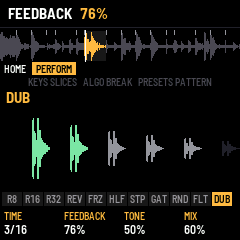
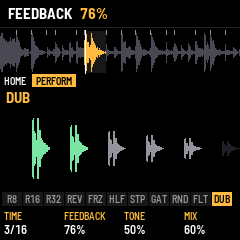
The help line gone; EDIT's drums show their waveforms
- the KEYS / ALGO / PRESETS line under the waveform is removed (the tabs say
  enough); the waveform has its rows back (44), the tabs sit under it
- EDIT's lower strip: each drum's box draws one hit of it (kick_shape and a
  new perc_shape, offline, worked out again when its sound changes), over a
  window fitting its decay, scaled to the box; lit on its hits as before
- engine test: perc_shape gives a hit, then its tail
- the manual's screenshots and the README's strips taken again; the control
  map's screen without the line

Claude-Session: https://claude.ai/code/session_01YWuRNut7ZhYpQRsULF21Ph

Changed region(s): [[0.0, 0.1458, 1.0, 0.3792]]

diff --git a/app/site/controlmap.html b/app/site/controlmap.html
@@ -34,8 +34,8 @@
 .cmap .zone { position: absolute; left: 0; right: 0; display: flex; align-items: center; padding: 0 6px; font-size: 9px; letter-spacing: .03em; }
 .cmap .z-head { top: 0; height: 11.7%; border-bottom: 1px solid #2a2a2a; color: #fff; justify-content: space-between; }
 .cmap .z-head b { color: var(--amber); font-weight: 500; }
-.cmap .z-wave { top: 12.5%; height: 13.3%; }
-.cmap .z-tabs { top: 25.8%; height: 5.8%; gap: 3px; font-size: 7px; color: #fff; }
+.cmap .z-wave { top: 12.5%; height: 18.3%; }
+.cmap .z-tabs { top: 30.8%; height: 5.8%; gap: 3px; font-size: 7px; color: #fff; }
 .cmap .z-tabs span { background: #1f1f1f; color: #9a9a9a; padding: 1px 3px; border-radius: 1px; }
 .cmap .z-tabs span.on { background: var(--amber); color: #000; }
 .cmap .z-tabs em { margin-left: auto; color: var(--amber); font-style: normal; }
@@ -122,7 +122,6 @@
             <div class="zone z-head"><span>&#9654; AMEN P1</span><b>170.0 BPM</b></div>
             <div class="zone z-wave"><svg class="wave" data-cm="wave" viewBox="0 0 240 32" preserveAspectRatio="none" aria-hidden="true"></svg></div>
             <div class="zone z-tabs" data-cm="tabs"></div>
-            <div class="zone z-help" data-cm="help"></div>
             <div class="zone z-strip"><div class="strip-box" data-cm="strip"></div></div>
             <div class="zone z-pads" data-cm="pads"></div>
             <div class="zone z-knobs" data-cm="knobs"></div>
@@ -233,12 +232,10 @@
     const on = p.id === "edit" ? (sub < 5 ? 0 : 1) : sub;
     $("tabs").innerHTML = "<b>" + p.btn + "</b>" + tabs.map((t, i) => '<span class="' + (i === on ? "on" : "") + '">' + t + "</span>").join("") +
       (p.part ? "<em>&lt; " + (p.id === "edit" ? s.n.split(" · ")[1] : "TREMOLO") + " &gt;</em>" : "");
-    $("help").className = "zone z-help" + (steps ? " steps" : "");
-    $("help").textContent = "KEYS " + (p.keys === "taps" ? "TAP" : steps ? (sub < 2 ? "PICK STEP" : "LANE STEPS") : "SLICES") + "   ALGO " + p.algo.split(" (")[0].toUpperCase() + "   PRESETS " + p.presets.split(" ")[0].toUpperCase();
     $("strip").innerHTML = s.strip + (s.note ? "<em>" + s.note + "</em>" : "");
     $("knobs").innerHTML = s.k.map((k, i) => k ? "<div>" + k + "<b>·····</b></div>" : '<div class="empty">K' + (i + 1) + "<b>&nbsp;</b></div>").join("");
     $("zones").innerHTML = [["HEADER", "Break, pattern, REC, tempo, meter", 1], ["WAVEFORM", "The break, the slice lit, the playhead", 1],
-      ["TABS", p.btn + " › " + tabs.join(" · "), 0], ["HELP", $("help").textContent.replace(/ {3}/g, " · "), 0],
+      ["TABS", p.btn + " › " + tabs.join(" · "), 0],
       ["STRIP", s.strip.toLowerCase(), 0], ["PADS", "11 pads, lit while held", 1], ["KNOBS", s.k.map(k => k || "—").join(" · "), 0]]
       .map(([a, b, same]) => "<div><dt>" + a + '</dt><dd class="' + (same ? "same" : "") + '">' + b + "</dd></div>").join("");
     const encs = [["SELECT", "Tempo (SEL: 0.1)", "on"], ["ALGORITHM", p.algo, "on"], ["PRESETS", p.presets, "on"]]

diff --git a/app/ui/kick.c b/app/ui/kick.c
@@ -179,24 +179,50 @@ static void kick_knob_turn(int i, int32_t d)
 static uint8_t kick_px[KS_W];
 static uint32_t kick_px_sig = 1u;
 
-/* EDIT's lower strip: the three drums side by side, the one edited outlined, each with its level, lit on its hits */
+/* EDIT's lower strip: the three drums side by side, each its own waveform (one hit, worked out again when its sound
+ * changes), the one edited outlined, lit on its hits */
+#define DW 66u                           /* a drum's waveform: its columns */
+static uint8_t drum_px[3][DW];
+static uint32_t drum_sig[3] = {1u, 1u, 1u};
+static uint32_t sig_of(const void *p, uint32_t n)
+{
+    uint32_t i, h = 2166136261u;
+    for (i = 0; i < n; i++)
+        h = (h ^ ((const uint8_t *)p)[i]) * 16777619u;
+    return h;
+}
 static void draw_drums(const brk_status_t *st)
 {
     static const char *const NAME[3] = {"KICK", "SNARE", "HAT"};
-    float lv[3];
-    uint32_t i;
-    lv[0] = set.kick.volume;
-    lv[1] = set.perc.v[PV_SNARE].level * set.perc.volume;
-    lv[2] = set.perc.v[PV_HAT].level * set.perc.volume;
+    uint32_t i, c;
+    for (i = 0; i < 3u; i++) {
+        uint32_t sig = i ? sig_of(&set.perc.v[i - 1u], sizeof set.perc.v[0]) : sig_of(&set.kick, sizeof set.kick);
+        if (sig != drum_sig[i]) {        /* its hit again, over a window that fits its decay, as tall as the box */
+            uint32_t pk = 0u;
+            drum_sig[i] = sig;
+            if (i) {
+                float d = perc_decay_ms(i - 1u, set.perc.v[i - 1u].decay) * 1.4f;
+                perc_shape(i - 1u, &set.perc.v[i - 1u], drum_px[i], DW, (uint32_t)brk_clampf(d, 60.0f, 900.0f), 120u);
+            } else
+                kick_shape(&set.kick, drum_px[0], DW, 600u, 120u);
+            for (c = 0; c < DW; c++)
+                pk = drum_px[i][c] > pk ? drum_px[i][c] : pk;
+            for (c = 0; c < DW && pk; c++)
+                drum_px[i][c] = (uint8_t)(drum_px[i][c] * 30u / pk);
+        }
+    }
     cv_begin(240, 52, C_BLACK);
     for (i = 0; i < 3u; i++) {
         int32_t x = 2 + (int32_t)i * 80;
         int sel = i == ui.einst, hit = st->playing && st->bar16 >= 0 && (lane_now[i] >> st->bar16 & 1u);
-        cv_rect(x, 4, 76, 44, sel ? C_WHITE : C_LINE);
-        cv_rect(x + 1, 5, 74, 42, hit ? C_BLOCK_HI : C_BLACK);
-        cv_text(x + 6, 9, &FONT_XS, NAME[i], hit ? C_BLACK : sel ? C_HI : C_GRAY);
-        cv_rect(x + 6, 32, 64, 5, C_BLOCK);
-        cv_rect(x + 6, 32, (int32_t)(64.0f * brk_clampf(lv[i], 0.0f, 1.0f) + 0.5f), 5, sel ? C_HI : C_GRAY);
+        uint16_t ink = hit ? C_BLACK : sel ? C_HI : C_GRAY;
+        cv_rect(x, 2, 76, 48, sel ? C_WHITE : C_LINE);
+        cv_rect(x + 1, 3, 74, 46, hit ? C_BLOCK_HI : C_BLACK);
+        cv_text(x + 5, 4, &FONT_T, NAME[i], hit ? C_BLACK : sel ? C_HI : C_GRAY);
+        cv_rect(x + 5, 33, DW, 1, hit ? C_BLACK : C_LINE);   /* the centre line, the hit mirrored about it */
+        for (c = 0; c < DW; c++)
+            if (drum_px[i][c])
+                cv_rect(x + 5 + (int32_t)c, 33 - drum_px[i][c] / 2, 1, drum_px[i][c] | 1, ink);
     }
     cv_blit(0, 140);
 }

diff --git a/app/ui/main.c b/app/ui/main.c
@@ -560,25 +560,6 @@ static void knob_value(int i, char *t)  /* the page's knob i (0..3), as shown un
         fx_value(ui.fx_focus, i, t);
 }
 
-/* the line under the waveform: what the white keys, ALGORITHM and PRESETS do on this page (amber: the keys are
- * steps here, not slices) */
-static void page_help(void)
-{
-    static const char *const ALGO[NPAGES] = {"BREAK", "BREAK", "SLOT", "PART", "PART", "BREAK", "LANE", "PART", "BREAK"};
-    static const char *const PRE[NPAGES] = {"PATTERN", "PATTERN", "EFFECT", "PATTERN", "KICK", "PATTERN", "PATTERN",
-                                            "SOUND", "PATTERN"};
-    char t[48] = "KEYS ";
-    int steps = !slices_page();
-    text_cat(t, ui.page != PG_SEQ ? "SLICES" : ui.seq_lane < SL_KICK ? "PICK STEP" : "LANE STEPS");
-    text_cat(t, "   ALGO ");
-    text_cat(t, ALGO[ui.page % NPAGES]);
-    text_cat(t, "   PRESETS ");
-    text_cat(t, PRE[ui.page % NPAGES]);
-    cv_begin(240, 12, C_BLACK);
-    cv_text((240 - text_w(&FONT_T, t)) / 2, 0, &FONT_T, t, steps ? C_AMB : C_DIM);
-    cv_blit(0, 76);
-}
-
 /* the tab bar under the waveform: the button's name, then the page's parts as tabs (the one you are on lit: the
  * button again, or ALGORITHM, goes to the next); EDIT and FX also name the part edited, "< SUB FX >" */
 static int32_t tab(int32_t x, const char *s, int on)
@@ -632,7 +613,7 @@ static void draw_tabs(void)
         text_cat(t, " >");
         cv_text(236 - text_w(&FONT_T, t), 1, &FONT_T, t, C_HI);
     }
-    cv_blit(0, 62);
+    cv_blit(0, 74);
 }
 
 /* SEL held alone: its combinations, on the strip (FX page: its own two) */
@@ -674,10 +655,8 @@ static void draw_foot(const brk_status_t *st)
                                               {"TEMPO", "FINE", "HALF / X2", ""}};
     uint32_t i;
     char t[16];
-    if (ui.page != PG_TAP) {             /* (TAP draws those rows itself) */
+    if (ui.page != PG_TAP)               /* (TAP draws those rows itself) */
         draw_tabs();
-        page_help();
-    }
     cv_begin(240, 48, C_BLACK);
     for (i = 0; i < 11u; i++) {
         int on = (st->pads >> i) & 1u;

diff --git a/app/ui/screen.c b/app/ui/screen.c
@@ -271,29 +271,29 @@ static void draw_head(const brk_status_t *st, const brk_break_t *b, uint32_t now
     cv_blit(0, 0);
 }
 
-/* the whole break: its waveform, the slice markers, the slice sounding lit, the playhead (32 rows: the tab bar and
- * the page's help line go under it) */
+/* the whole break: its waveform, the slice markers, the slice sounding lit, the playhead (44 rows: the tab bar goes
+ * under it) */
 static void draw_wave(const brk_status_t *st, const brk_break_t *b)
 {
     uint32_t i;
-    cv_begin(240, 32, C_BLACK);
+    cv_begin(240, 44, C_BLACK);
     if (b && b->len) {
         int32_t lit_a = -1, lit_z = -1;
         if (st->slice >= 0) {
             lit_a = (int32_t)(b->slice[st->slice] * 240u / b->len);
             lit_z = (int32_t)(b->slice[st->slice + 1] * 240u / b->len);
-            cv_rect(lit_a, 1, lit_z - lit_a, 30, C_BLOCK);
+            cv_rect(lit_a, 1, lit_z - lit_a, 42, C_BLOCK);
             if (set.gate && set.gate < 100u && st->key < 0)   /* gated: only the part that sounds lit */
                 lit_z = lit_a + ((lit_z - lit_a) * (int32_t)set.gate + 99) / 100;
         }
         for (i = 0; i < 240u; i++) {
-            int32_t h = wave_px[i] * 5 / 8;
-            cv_rect((int32_t)i, 16 - h, 1, 2 * h + 1, (int32_t)i >= lit_a && (int32_t)i < lit_z ? C_HI : C_DIM);
+            int32_t h = wave_px[i] * 5 / 6;
+            cv_rect((int32_t)i, 22 - h, 1, 2 * h + 1, (int32_t)i >= lit_a && (int32_t)i < lit_z ? C_HI : C_DIM);
         }
         for (i = 1; i < b->nslices; i++)
             cv_rect((int32_t)(b->slice[i] * 240u / b->len), 0, 1, 5, C_GRAY);
         if (st->slice >= 0)
-            cv_rect((int32_t)((uint32_t)st->pos * 240u / b->len), 0, 1, 32, C_WHITE);
+            cv_rect((int32_t)((uint32_t)st->pos * 240u / b->len), 0, 1, 44, C_WHITE);
     }
     cv_blit(0, 30);
 }

diff --git a/app/dsp/perc.c b/app/dsp/perc.c
@@ -171,6 +171,31 @@ void perc_render(float *out, uint32_t n, const uint16_t *at, const uint8_t *who,
     }
 }
 
+void perc_shape(uint32_t voice, const perc_voice_t *s, uint8_t *px, uint32_t n, uint32_t ms, uint32_t height)
+{
+    pc_t c;
+    pv_t v;
+    uint32_t i, k, per = ms * (BRK_SR / 1000u) / (n ? n : 1u);
+    voice %= PERC_VOICES;
+    pc_make(voice, s, 1.0f, &c);
+    for (k = 0; k < 6u; k++)
+        v.ph[k] = 0.0f;
+    v.hp1 = v.hp2 = v.lp = v.last = v.declick = 0.0f;
+    pv_hit(&v);
+    v.declick = 0.0f;
+    for (i = 0; i < n; i++) {
+        uint32_t j;
+        float pk = 0.0f;
+        for (j = 0; j < per; j++) {
+            float x = voice == PV_SNARE ? snare_tick(&v, &c) : hat_tick(&v, &c);
+            x = brk_absf(soft(x * c.g) * c.make * c.lvl);
+            if (x > pk)
+                pk = x;
+        }
+        px[i] = (uint8_t)(brk_clampf(pk, 0.0f, 1.0f) * (float)height + 0.5f);
+    }
+}
+
 /* the built-in sounds: level, tune, decay, tone, snap (the hat's cut), drive */
 static const float PRESET[PERC_VOICES][PERC_PRESETS][6] = {
     {{0.80f, 0.45f, 0.40f, 0.50f, 0.55f, 0.10f},    /* 909 */

diff --git a/tests/engine/test_engine.c b/tests/engine/test_engine.c
@@ -1237,6 +1237,19 @@ static void test_perc(void)
         CHECK(e[0] > e[1] * 4.0f, "snare body at its tune (%.0f Hz): %.1f dB over 2.9x it", want,
               10.0f * log10f(e[0] / (e[1] + 1e-9f)));
     }
+    {                                    /* the screen's shape of a hit: loud at its start, quiet by its end */
+        perc_t ps;
+        uint8_t px[66];
+        uint32_t v2, c, pk;
+        perc_defaults(&ps);
+        for (v2 = 0; v2 < PERC_VOICES; v2++) {
+            perc_shape(v2, &ps.v[v2], px, 66u, 400u, 30u);
+            for (c = 0, pk = 0; c < 66u; c++)
+                pk = px[c] > pk ? px[c] : pk;
+            CHECK(pk >= 3u && px[65] < pk / 2u && (px[0] == pk || px[1] == pk || px[2] == pk),
+                  "perc_shape %u: a hit at its start, then its tail (%u .. %u)", v2, pk, px[65]);
+        }
+    }
 }
 
 /* the kick (PRD K-*): its layers, its decay, its hits on their samples, the presets, the steps' events */

diff --git a/app/dsp/perc.h b/app/dsp/perc.h
@@ -33,3 +33,6 @@ void perc_hit(uint32_t voice);           /* main loop (a MIDI note): at the next
 /* render: n samples into out (overwritten); hits at the sample offsets at[0..nat-1] (rising), who[k] the voices
  * (bit PV_*) hit there */
 void perc_render(float *out, uint32_t n, const uint16_t *at, const uint8_t *who, uint32_t nat);
+/* main loop: one hit of the voice as the screen draws it, offline: px[i] the peak (0..height) of the ith of n columns
+ * over its first ms milliseconds, at its level (not the volume) */
+void perc_shape(uint32_t voice, const perc_voice_t *v, uint8_t *px, uint32_t n, uint32_t ms, uint32_t height);

diff --git a/docs/PRD.md b/docs/PRD.md
@@ -272,11 +272,12 @@ on the keys, eyes on the crowd.
 | B-40 | **Encoder roles:** ALGORITHM picks what the page edits (FX slot, kick layer, SEQ lane, drum voice, GLOBAL's part), the break on HOME / ARP / MIXER; PRESETS what goes in (effect, kick, drum sound), the pattern elsewhere. SEL + ALGORITHM = the break and SEL + PRESETS = the pattern on every page | P1 | *Done; scenario controls.txt* |
 | B-41 | **A page button again = its next part**: GLO 3 parts, EDIT 5, LFO 2, ENV 2, FX its 4 slots (on letting go, so FX held + ALGORITHM can move the slot), SEQ its 5 lanes; a dot per part between the pads and the knobs. FX's bypass moved to SEL + FX | P1 | *Done; scenarios fxchain.txt, controls.txt* |
 | B-42 | **Undo:** one copy of the pattern before SEL + ARP, SEL + REC and a drum lane's FILL / CLR / COPY (a burst of one change is one); SEL + SAVE swaps it back (again: redo); ~140 B of RAM | P1 | *Done; scenario controls.txt* |
-| B-43 | **The page's help line** under the waveform (now 42 rows): KEYS / ALGO / PRESETS, amber where the keys are steps; the per-page help lines went | P2 | *Done* |
+| B-43 | ~~**The page's help line** under the waveform: KEYS / ALGO / PRESETS~~ Removed 3 Nov 2026 (the user's call: the tabs say enough; the waveform has its rows back, 44) | P2 | *Removed* |
 | B-44 | **The drums' route has one home**, MIXER GROOVE K2: SEL + EDIT and KICK OUT's ROUTE removed | P2 | *Done* |
 | B-45 | **HOME K3 FX, K4 COMPLEXITY** (mirrors of MIXER K4 and ARP K1) | P2 | *Done* |
 | B-46 | **SEQ drum lanes' knobs:** K1 FILL (n hits spread evenly from the downbeat, Euclidean), K2 ROTATE, K3 clear (left) / four on the floor (right), K4 copy the previous pattern's lane | P2 | *Done; scenario controls.txt* |
 | B-47 | **SEL pressed alone** (held a second until 3 Nov 2026, when tap tempo left SEL): the strip lists the SEL combinations (FX page: SEL + FX, FX + ALGO); SEL again, or any other button, key or knob, closes it | P2 | *Done; scenario controls.txt* |
+| B-50 | **EDIT's drums show their waveforms** (3 Nov 2026): the lower strip's three boxes each draw one hit of the drum (`kick_shape`, `perc_shape`: offline, worked out again when its settings change), over a window fitting its decay, as tall as the box | P2 | *Done; engine test: perc_shape a hit, then its tail* |
 | B-48 | **SEQ sequences, EDIT designs** (3 Nov 2026, the user's call): the drums' steps live on SEQ's lanes only (the white keys play slices on every other page); EDIT holds the kick, the snare and the hat (EDIT again: the next drum; ALGORITHM the drum's part: the kick's 11 = MIX, each layer and its FX, MACRO, OUT; the snare's / hat's SOUND, SHAPE); the lower strip shows the three drums, lit on their hits. ENV went to tap tempo (A-38) | P1 | *Done; scenarios kick.txt, perc.txt* |
 | B-49 | **A tab bar** replaces B-41's dots: under the waveform (now 32 rows), the button's name as printed, then the page's parts as tabs (the one you are on filled amber), and on EDIT / FX the part edited, "< SUB FX >"; the help line (B-43) under it | P1 | *Done* |
 

diff --git a/app/docs/MANUAL.md b/app/docs/MANUAL.md
@@ -48,8 +48,6 @@ The slicer view, top to bottom:
 - **The break:** its waveform, the slice markers, the slice sounding lit, the playhead.
 - **Tabs:** the button you pressed (as printed on the panel), then the page's parts as tabs, the one you are on lit:
   the button again (or ALGORITHM) goes to the next. On EDIT and FX the part edited shows at the right, "< SUB FX >".
-- **Help line:** what the white keys, ALGORITHM and PRESETS do on this page; amber on SEQ, where the white keys are
-  steps.
 - **Slice blocks:** sixteen blocks, one per white key, each with its slice's waveform. The slice sounding is lit;
   a key held is outlined; a dot marks a key with a loop of its own (§3, key loops).
 - **Pads:** the eleven black-key pads, lit while held.
@@ -62,7 +60,7 @@ the white keys play slices everywhere but SEQ and ENV (tap tempo). **SEL + ALGOR
 PRESETS the pattern on every page.** A page's button pressed again is its next part. **Press SEL** alone and the strip
 lists its combinations (SEL again, or any other button, key or knob, closes it). The control map (§11) shows all of it at once.
 
-![SEL pressed: its combinations on the strip; the help line under the waveform; the HOME knobs](img/screen-selhelp.png "SEL pressed")
+![SEL pressed: its combinations on the strip; the HOME knobs](img/screen-selhelp.png "SEL pressed")
 
 ## 3. Playing
 
@@ -306,7 +304,8 @@ around it together (MIXER GROOVE K2).
 
 **EDIT** opens the drum edited last; **EDIT again** goes to the next: KICK → SNARE → HAT → KICK (the tabs show which).
 **ALGORITHM** turns through the drum's parts, **PRESETS** loads a built-in sound. The lower strip shows the three
-drums side by side, the one edited outlined, each with its level, lit on its hits. The white keys keep playing slices.
+drums side by side, each with its waveform (one hit, drawn again as you change the sound), the one edited outlined,
+lit on its hits. The white keys keep playing slices.
 
 ### The kick
 
